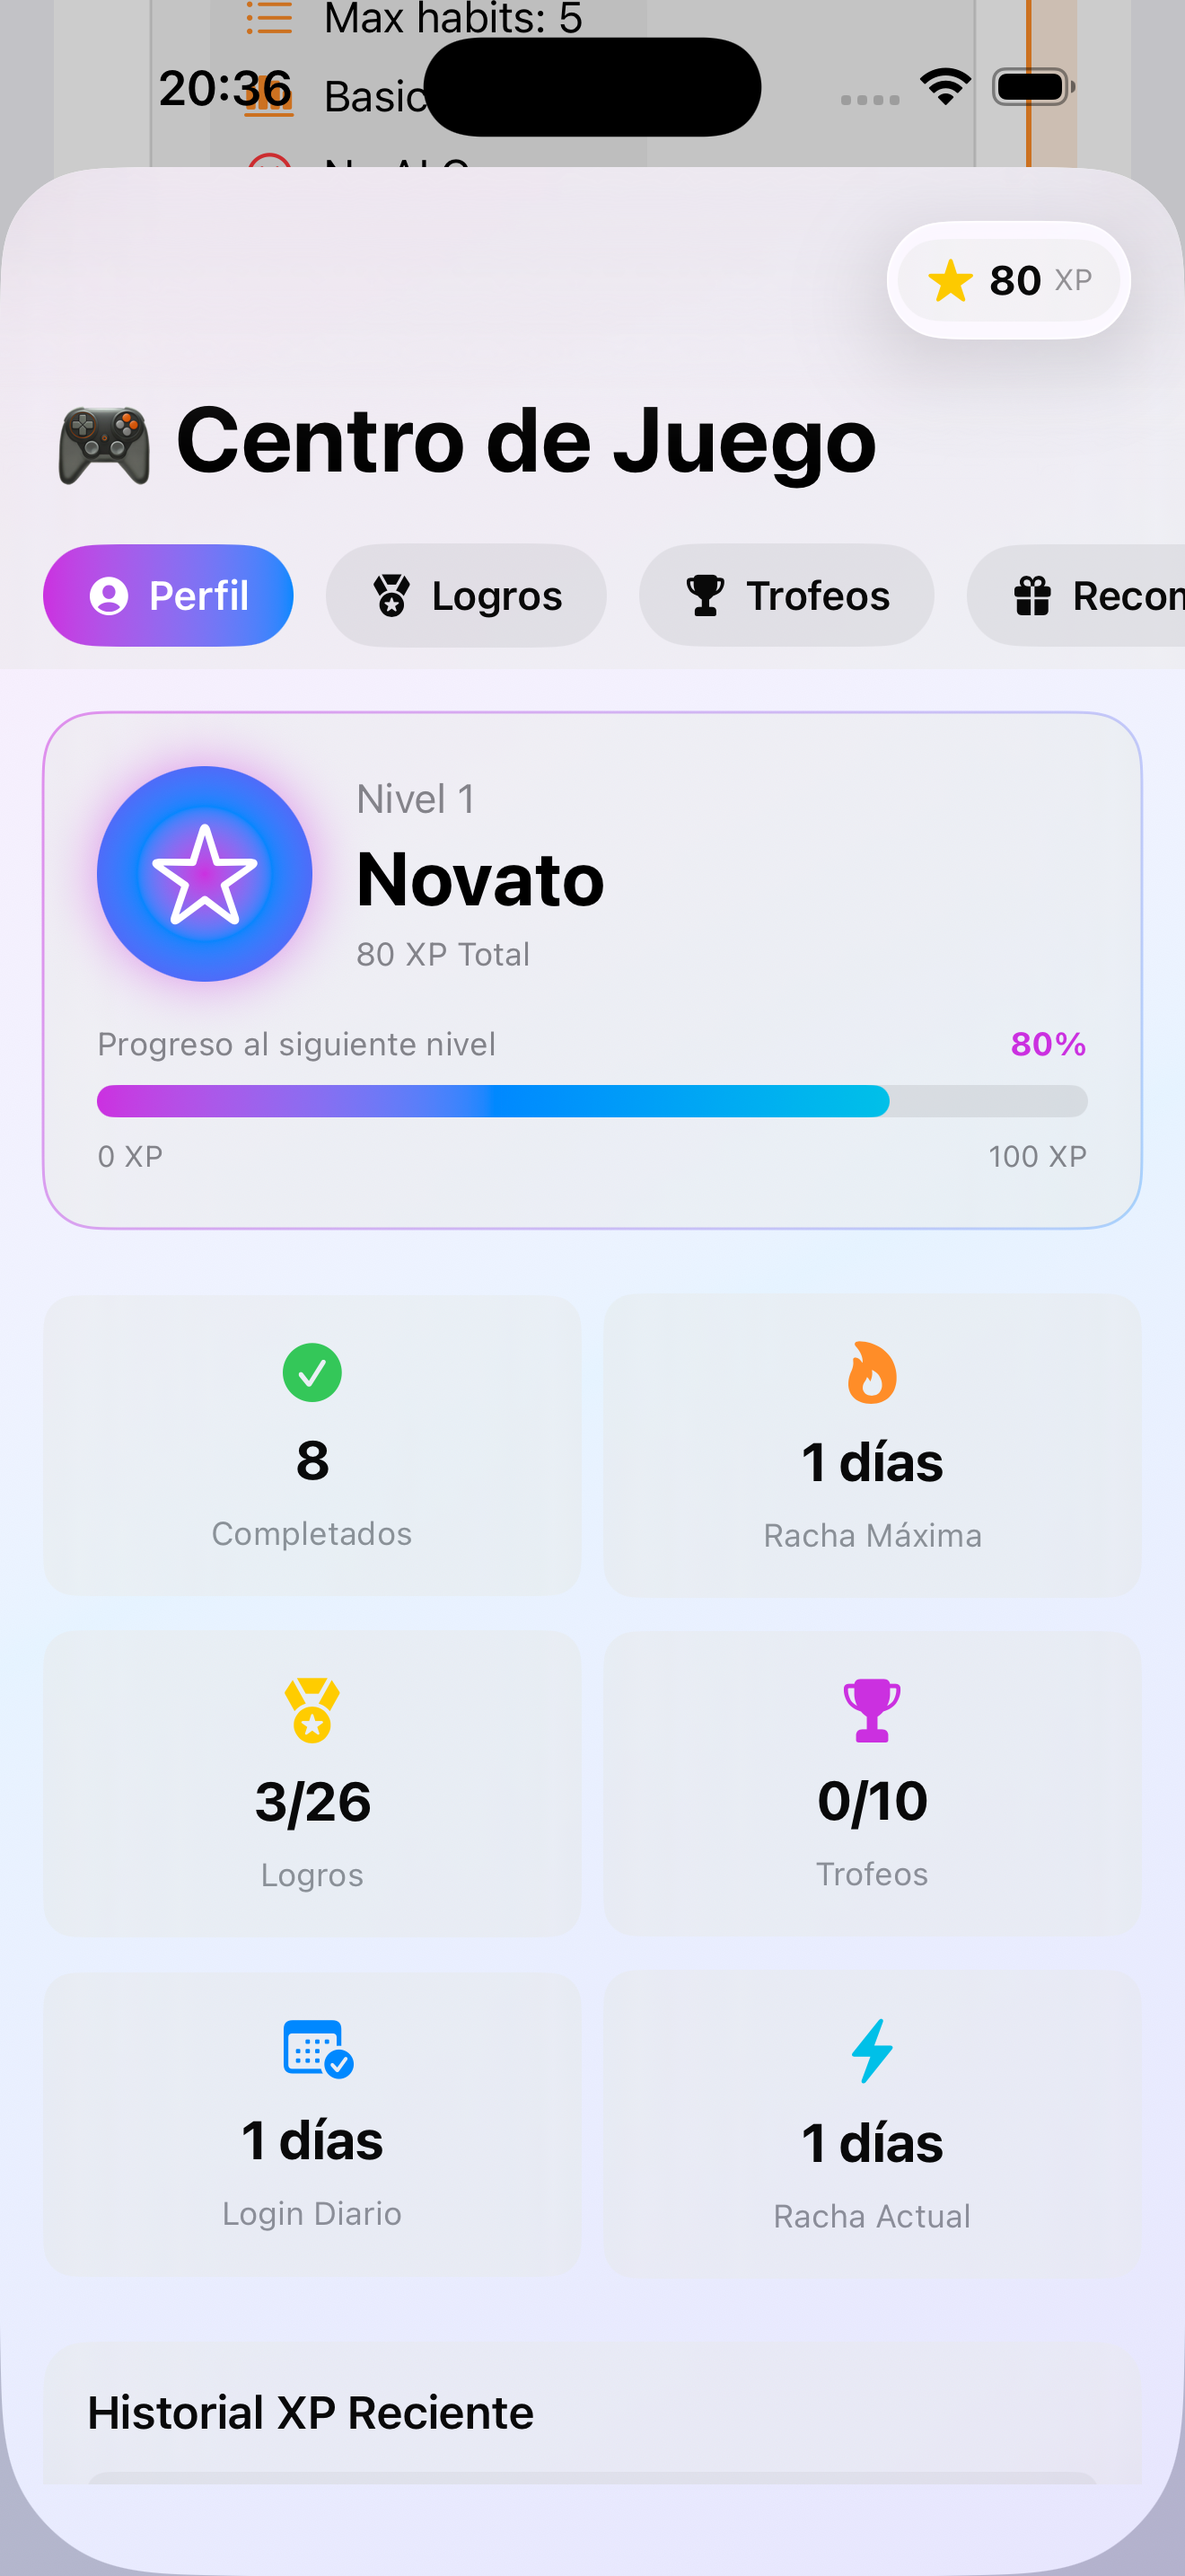
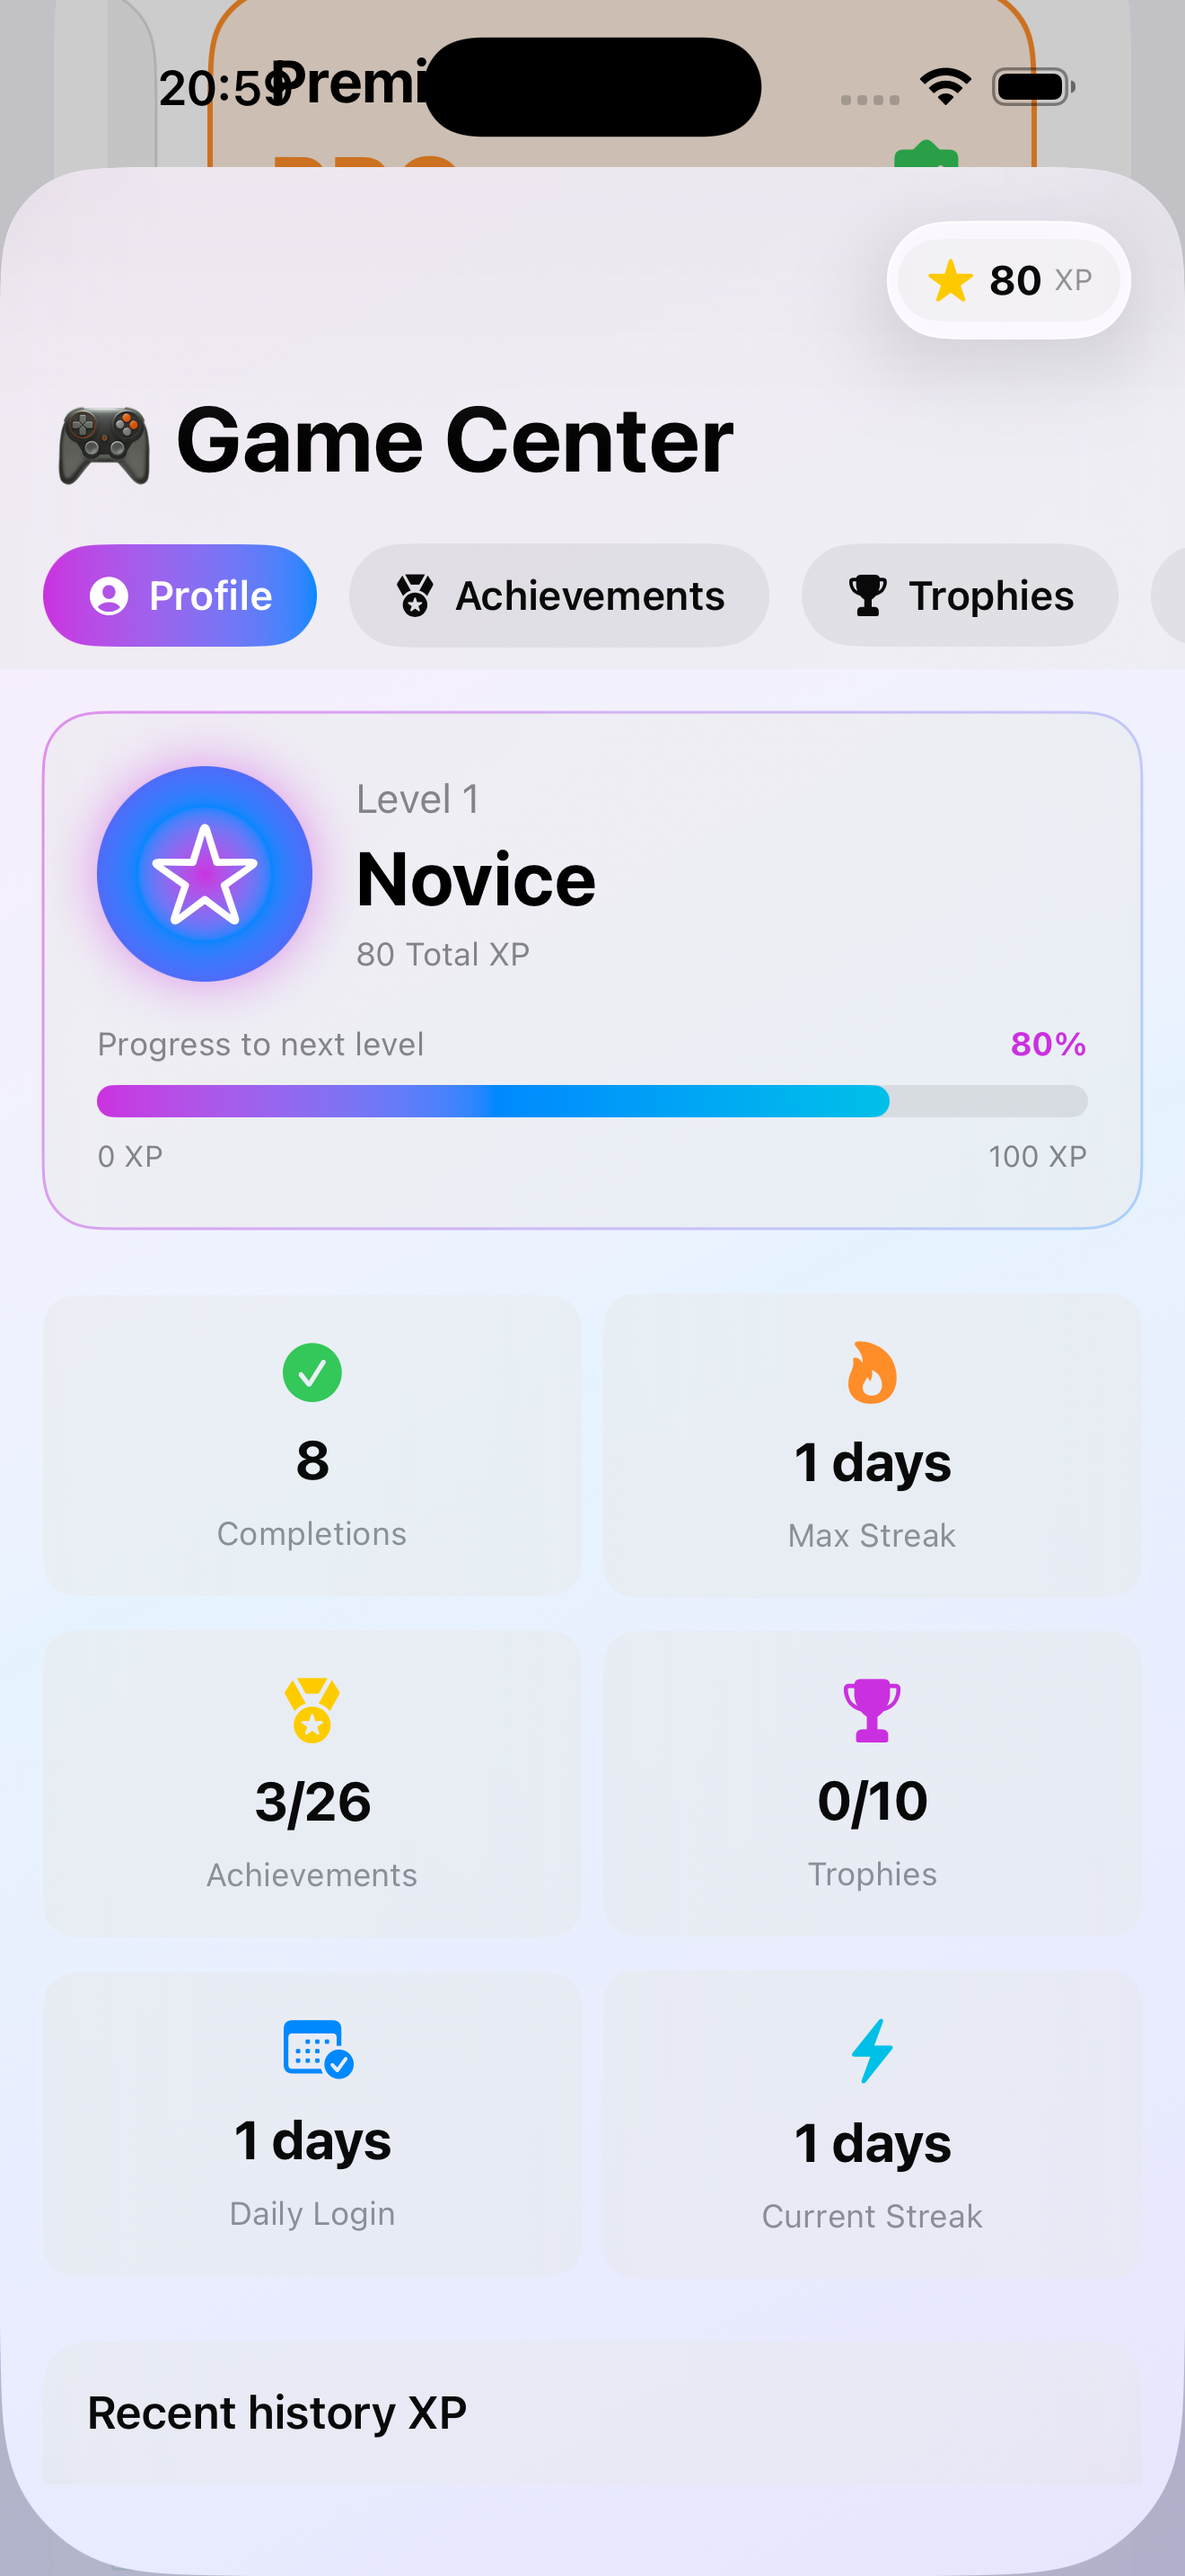
feat: Add localized strings for gamification settings and update UI references in SettingsView

diff --git a/HabitApp/Views/SettingsView.swift b/HabitApp/Views/SettingsView.swift
@@ -74,7 +74,7 @@ struct SettingsView: View {
             
             // ---------- GAMIFICACIÓN (Premium) ----------
             if PremiumFeatures.isEnabled {
-                Section(header: Text("🎮 Gamificación")) {
+                Section(header: Text("🎮 \(languageManager.localized("gamification"))")) {
                     Button {
                         showGamificationHub = true
                     } label: {
@@ -96,11 +96,11 @@ struct SettingsView: View {
                             }
                             
                             VStack(alignment: .leading, spacing: 4) {
-                                Text("Centro de Juego")
+                                Text(languageManager.localized("game_center"))
                                     .font(.headline)
                                     .foregroundStyle(.primary)
                                 
-                                Text("XP, Logros, Trofeos y Recompensas")
+                                Text(languageManager.localized("gamification_subtitle"))
                                     .font(.caption)
                                     .foregroundStyle(.secondary)
                             }
@@ -200,15 +200,15 @@ struct SettingsView: View {
                     
                     // Gamification Card (Premium)
                     if PremiumFeatures.isEnabled {
-                        macOSSettingsCard(title: "🎮 Gamificación", icon: "trophy.fill", iconColor: .purple) {
+                        macOSSettingsCard(title: "🎮 \(languageManager.localized("gamification"))", icon: "trophy.fill", iconColor: .purple) {
                             Button {
                                 showGamificationHub = true
                             } label: {
                                 HStack(spacing: 16) {
                                     VStack(alignment: .leading, spacing: 4) {
-                                        Text("Centro de Juego")
+                                        Text(languageManager.localized("game_center"))
                                             .font(.headline)
-                                        Text("XP, Logros, Trofeos y Recompensas diarias")
+                                        Text(languageManager.localized("gamification_subtitle"))
                                             .font(.caption)
                                             .foregroundStyle(.secondary)
                                     }

diff --git a/HabitApp/Data/LanguageManager.swift b/HabitApp/Data/LanguageManager.swift
@@ -328,6 +328,11 @@ class LanguageManager: ObservableObject {
             "recent_history": "Historial reciente",
             "no_rewards_yet": "Aún no has reclamado recompensas",
             
+            // Gamification - Settings
+            "gamification": "Gamificación",
+            "gamification_subtitle": "XP, Logros, Trofeos y Recompensas",
+            "daily_rewards": "Recompensas diarias",
+            
             // Gamification - Achievements (Names)
             "achievement_streak_3": "Primer Paso",
             "achievement_streak_7": "Semana Perfecta",
@@ -677,6 +682,11 @@ class LanguageManager: ObservableObject {
             "upcoming_rewards": "Upcoming rewards",
             "recent_history": "Recent history",
             "no_rewards_yet": "You haven't claimed any rewards yet",
+            
+            // Gamification - Settings
+            "gamification": "Gamification",
+            "gamification_subtitle": "XP, Achievements, Trophies & Rewards",
+            "daily_rewards": "Daily rewards",
             
             // Gamification - Achievements (Names)
             "achievement_streak_3": "First Step",
